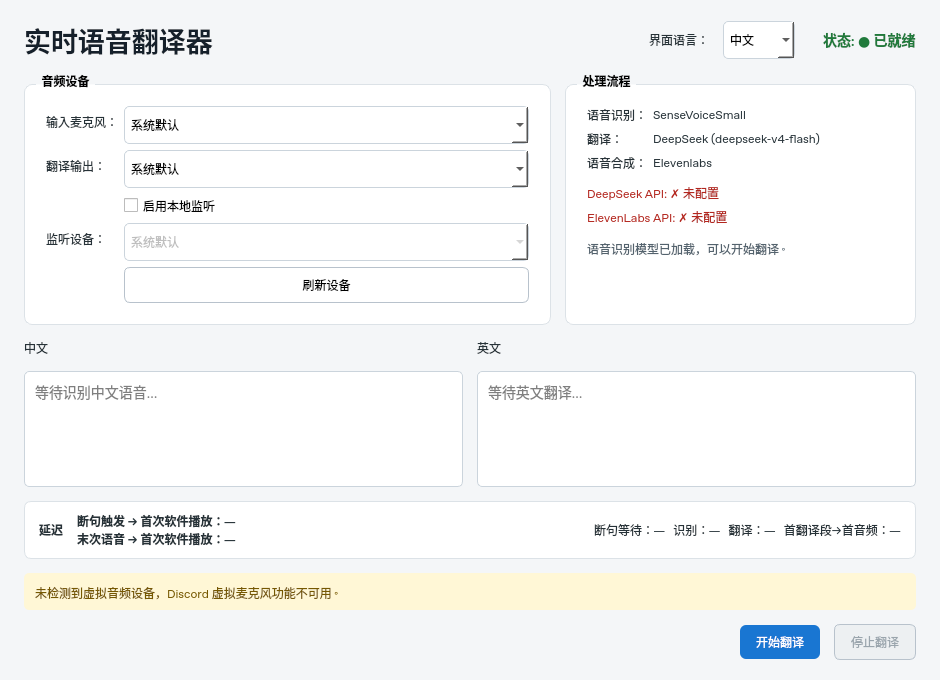
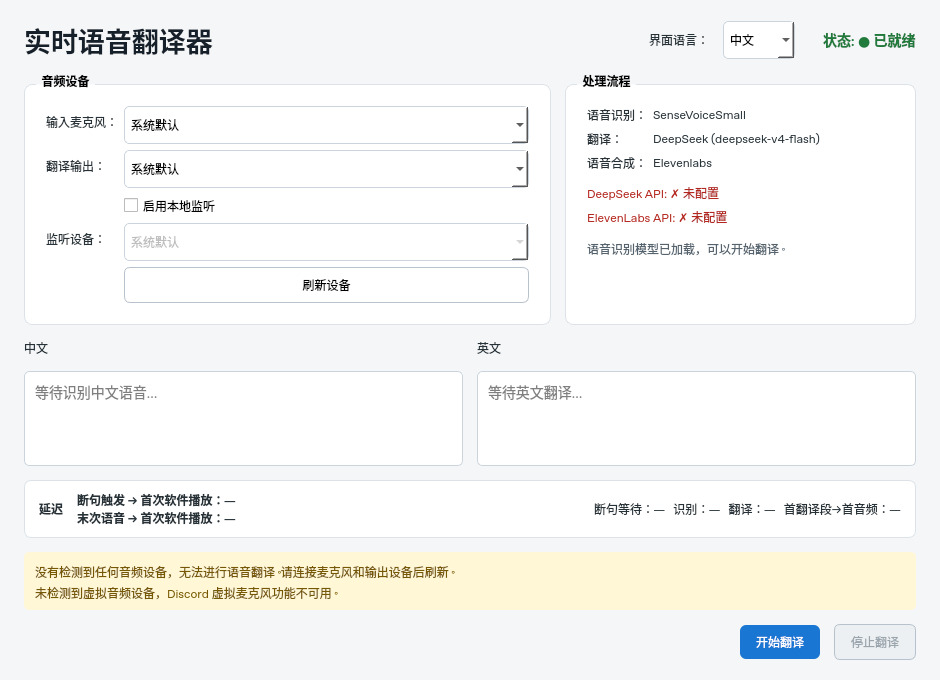
Verify complete CPU desktop startup and fail closed without audio devices

Changed region(s): [[0.0, 0.7103, 0.9872, 0.8647], [0.4628, 0.6794, 0.4936, 0.7103]]

diff --git a/scripts/smoke_desktop.py b/scripts/smoke_desktop.py
@@ -1,0 +1,45 @@
+"""Open the real Qt window, wait for real model init, capture, close. No translation starts."""
+import argparse
+import json
+from pathlib import Path
+import sys
+import time
+
+sys.path.insert(0, str(Path(__file__).resolve().parents[1]))
+from PySide6.QtCore import QTimer
+from PySide6.QtWidgets import QApplication
+from gui.main_window import MainWindow
+
+parser = argparse.ArgumentParser(description=__doc__)
+parser.add_argument('--screenshot', default='desktop-smoke.png')
+args = parser.parse_args()
+app = QApplication([])
+window = MainWindow()
+window.show()
+started = time.monotonic()
+print(json.dumps({'initial_start_enabled': window.start_button.isEnabled()}), flush=True)
+code = [1]
+
+def check():
+    if window.initialization_thread is not None:
+        return
+    details = {
+        'visible': window.isVisible(), 'status': window._status,
+        'start_enabled': window.start_button.isEnabled(),
+        'no_audio_devices': 'no_audio_devices' in window._notice_keys,
+        'model_ready': window._model_ready,
+        'error_key': window._error_key,
+        'elapsed_seconds': round(time.monotonic() - started, 2),
+    }
+    print(json.dumps(details), flush=True)
+    window.grab().save(args.screenshot)
+    code[0] = 0 if window._model_ready else 1
+    timer.stop()
+    window.close()
+    app.quit()
+
+timer = QTimer()
+timer.timeout.connect(check)
+timer.start(100)
+app.exec()
+raise SystemExit(code[0])

diff --git a/gui/main_window.py b/gui/main_window.py
@@ -467,7 +467,11 @@ class MainWindow(QMainWindow):
 
         try:
             devices = list_audio_devices()
-            self._devices_available = True
+            self._devices_available = bool(devices)
+            if devices:
+                self._notice_keys.discard("no_audio_devices")
+            else:
+                self._notice_keys.add("no_audio_devices")
             input_devices = [d for d in devices if d.max_input_channels > 0]
             output_devices = [d for d in devices if d.max_output_channels > 0]
             input_restored = self._populate_device_combo(
@@ -660,6 +664,8 @@ class MainWindow(QMainWindow):
 
     def _runtime_options(self) -> NormalPipelineOptions:
         if not self._devices_available:
+            if "no_audio_devices" in self._notice_keys:
+                raise AudioRoutingError(tr("no_audio_devices", self.language))
             raise AudioRoutingError(tr("device_refresh_failed", self.language, detail=""))
         required = [self.input_combo, self.output_combo]
         if self.monitor_checkbox.isChecked():

diff --git a/gui/i18n.py b/gui/i18n.py
@@ -3,6 +3,7 @@ TRANSLATIONS = {
         "window_title": "实时语音翻译器",
         "language": "界面语言：",
         "audio_devices": "音频设备",
+        "no_audio_devices": "没有检测到任何音频设备，无法进行语音翻译。请连接麦克风和输出设备后刷新。",
         "input_microphone": "输入麦克风：",
         "translation_output": "翻译输出：",
         "enable_local_monitor": "启用本地监听",
@@ -62,6 +63,7 @@ TRANSLATIONS = {
         "window_title": "Real-Time Speech Translator",
         "language": "Language:",
         "audio_devices": "Audio Devices",
+        "no_audio_devices": "No audio devices detected. Connect a microphone and output device, then refresh before translating.",
         "input_microphone": "Input Microphone:",
         "translation_output": "Translation Output:",
         "enable_local_monitor": "Enable Local Monitor",

diff --git a/tests/test_gui.py b/tests/test_gui.py
@@ -67,6 +67,14 @@ class MainWindowTests(unittest.TestCase):
         self.assertFalse(self.window.start_button.isEnabled())
         self.assertIn("初始化失败", self.window.startup_detail_label.text())
 
+    def test_zero_audio_devices_is_explicit_and_blocks_runtime(self):
+        self.devices = []
+        self.window.refresh_devices()
+        self.assertFalse(self.window._devices_available)
+        self.assertIn("no_audio_devices", self.window._notice_keys)
+        with self.assertRaisesRegex(AudioRoutingError, "没有检测到任何音频设备"):
+            self.window._runtime_options()
+
     def test_startup_is_loading_and_start_is_disabled(self) -> None:
         self.assertEqual(self.window._status, "LOADING")
         self.assertFalse(self.window.start_button.isEnabled())

diff --git a/docs/DELIVERY.md b/docs/DELIVERY.md
@@ -15,7 +15,7 @@
 
 ## 测试结果与边界
 
-最终精确结果见 evidence/gui-results.json、evidence/no-gui-results.json。本轮完整GUI离线回归80项通过；无GUI依赖环境80项完整收集，57通过、23跳过。断言失败0、模块导入错误0、其他错误0、未运行0；均正常结束，无中断。界面生命周期测试使用替身，不计真实音频/服务验收。中途新增测试期间的运行不作为最终成绩。
+最终精确结果见 evidence/gui-results.json、evidence/no-gui-results.json。本轮完整GUI离线回归81项通过；无GUI依赖环境81项完整收集，57通过、24跳过。断言失败0、模块导入错误0、其他错误0、未运行0；均正常结束，无中断。界面生命周期测试使用替身，不计真实音频/服务验收。中途新增测试期间的运行不作为最终成绩。
 
 官方模型真实初始化、预录5.616秒中文样本识别通过。详见 MODEL_SETUP.md；单样本推理时间只是该环境可运行记录，不是本轮整体翻译延迟指标。另1秒合成静音识别出“嗯。”，保留为模型静音幻觉风险，不能称所有噪声输入可靠。
 
@@ -25,4 +25,6 @@
 
 在有真实麦克风/耳机的Windows电脑上按README和MODEL_SETUP安装，使用已有获授权服务密钥和预算，执行DESKTOP_ACCEPTANCE清单。虚拟声卡验收需要已安装的虚拟设备，不需新购云资源。记录当前完整提交、设备、配置、样本量和失败样本后再评价真实稳定性与延迟。
 
-完整core+GUI+CPU模型环境另跑80项全部通过，pip check无冲突。实际MainWindow（不替换初始化器）在Qt offscreen下由开始按钮禁用→真实SenseVoice加载完成→READY/开始按钮启用，窗口真实可见，截图见evidence/gui-real-model-ready.png，关闭后进程退出码0。API未配置仍不能启动付费流程；这不代表音频设备或服务已验收。
+完整core+GUI+CPU模型环境另跑81项全部通过，pip check无冲突。实际MainWindow（不替换初始化器）在Qt offscreen下由开始按钮禁用→真实SenseVoice加载完成→READY/开始按钮启用，窗口真实可见，截图见evidence/gui-real-model-ready.png，关闭后进程退出码0。API未配置仍不能启动付费流程；这不代表音频设备或服务已验收。
+
+零设备真实启动：窗口明确显示没有任何音频设备，模型仍可独立加载到READY；开始前路由阻断，不伪造可用麦克风。窗口关闭和进程退出正常。可复现命令：python scripts/smoke_desktop.py --screenshot desktop-smoke.png（需要模型，首次可下载；不启动翻译服务）。

diff --git a/README.md b/README.md
@@ -66,3 +66,5 @@ python scripts/run_tests.py test-results.json
 ### 安全限制
 
 设备名称重复时不能可靠识别重插后的设备，本轮保守地要求重选唯一名称/使用系统默认，不信任历史索引。pyttsx3 直接模式只支持系统默认输出且关闭本地监听；选择显式输出或开启监听会明确拒绝启动，避免配置被静默忽略。ElevenLabs 路由支持显式设备。云合成回退到 pyttsx3 时测量点可能是词回调或调用起点，因此界面统称“首次软件播放”，不能统一称为 PCM 写入或声学出声。
+
+模型准备后可运行 python scripts/smoke_desktop.py --screenshot desktop-smoke.png 检查真实Qt窗口和模型初始化，再自动关闭；它不会开始翻译或调用收费服务。无麦克风时会清楚提示，但模型初始化可独立成功。
